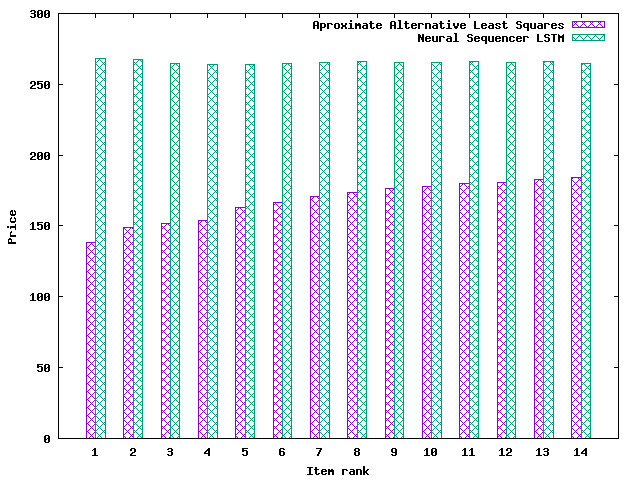
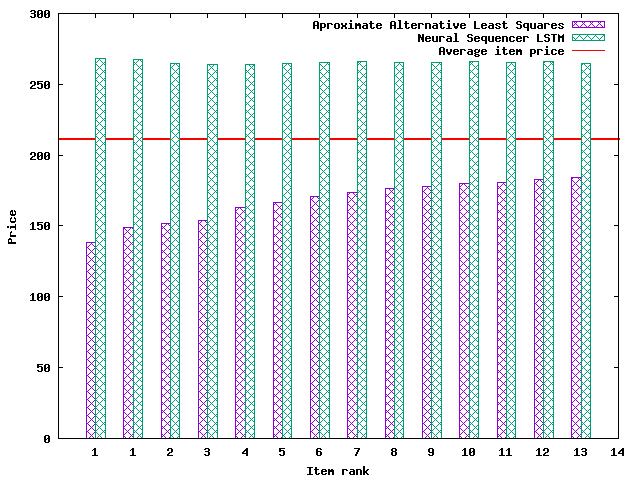
Charts

diff --git a/create_charts.py b/create_charts.py
@@ -1,18 +1,22 @@
 import pandas as pd
 from pygnuplot import gnuplot
+import math
 
+AVG_POP = 963.055035335689
 # Popularity
 popularity = pd.read_csv("charts/chart_data/popularity.csv").set_index("rank")
 
 popularity.index.name = "label"
-# print(df)
+popularity["default"] = -50
 gnuplot.plot_data(
     popularity,
     "using 2:xticlabels(1) title columnheader(2) with histograms fs pattern 1",
-    "using 3:xticlabels(1) title columnheader(3) with histograms fs pattern 1",
+    "using 3 title columnheader(3) with histograms fs pattern 1",
+    'using 4:xticlabels(1) title "Average item popularity" with lines lc "red" lw 0.2',
     xlabel='"Item rank"',
     ylabel='"Popularity"',
     yrange="[0:]",
+    arrow = f'1 from graph 0, first {AVG_POP} to graph 1, first {AVG_POP} lc "red" lw 2 nohead ',
     terminal='svg standalone fname "Arial bold"',
     term='png medium background "#ffffff"',
     style=["data histogram"],
@@ -23,16 +27,19 @@ gnuplot.plot_data(
 # Ages
 ages = pd.read_csv("charts/chart_data/ages.csv").set_index("rank")
 
-
+AVG_AGE = 270.2706855791962
 ages.index.name = "label"
+ages["default"] = -50
 # print(df)
 gnuplot.plot_data(
     ages,
     "using 2:xticlabels(1) title columnheader(2) with histograms fs pattern 1",
     "using 3:xticlabels(1) title columnheader(3) with histograms fs pattern 1",
+    'using 4:xticlabels(1) title "Average item age" with lines lc "red" lw 0.2',
     xlabel='"Item rank"',
     ylabel='"Age (Days)"',
     yrange="[0:]",
+    arrow = f'1 from graph 0, first {AVG_AGE} to graph 1, first {AVG_AGE} lc "red" lw 2 nohead ',
     terminal='svg standalone fname "Arial bold"',
     term='png medium background "#ffffff"',
     style=["data histogram"],
@@ -41,15 +48,18 @@ gnuplot.plot_data(
 
 # Prices
 prices = pd.read_csv("charts/chart_data/prices.csv").set_index("rank")
-
+AVG_PRICE = 210.29613299171743
 prices.index.name = "label"
+prices["default"] = -50
 gnuplot.plot_data(
     prices,
     "using 2:xticlabels(1) title columnheader(2) with histograms fs pattern 1",
     "using 3:xticlabels(1) title columnheader(3) with histograms fs pattern 1",
+    'using 4:xticlabels(1) title "Average item price" with lines lc "red" lw 0.2',
     xlabel='"Item rank"',
     ylabel='"Price"',
     yrange="[0:]",
+    arrow = f'1 from graph 0, first {AVG_PRICE} to graph 1, first {AVG_PRICE} lc "red" lw 2 nohead ',
     terminal='svg standalone fname "Arial bold"',
     term='png medium background "#ffffff"',
     style=["data histogram"],
